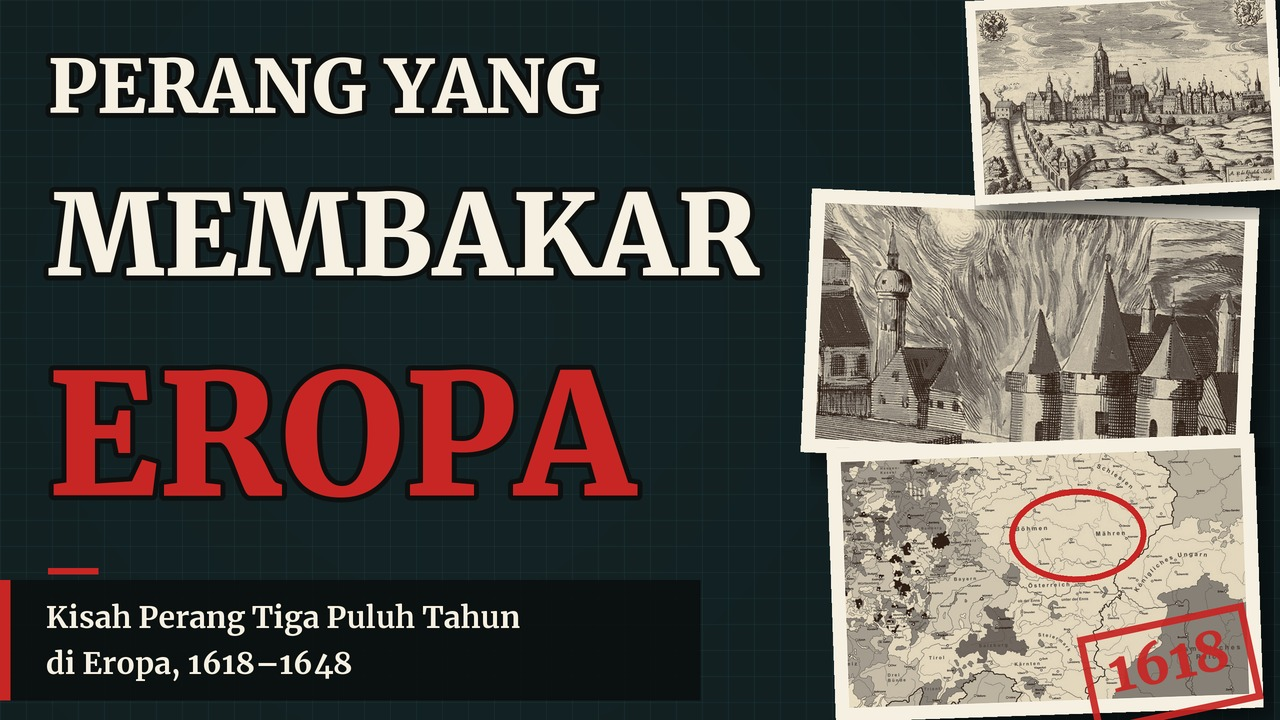
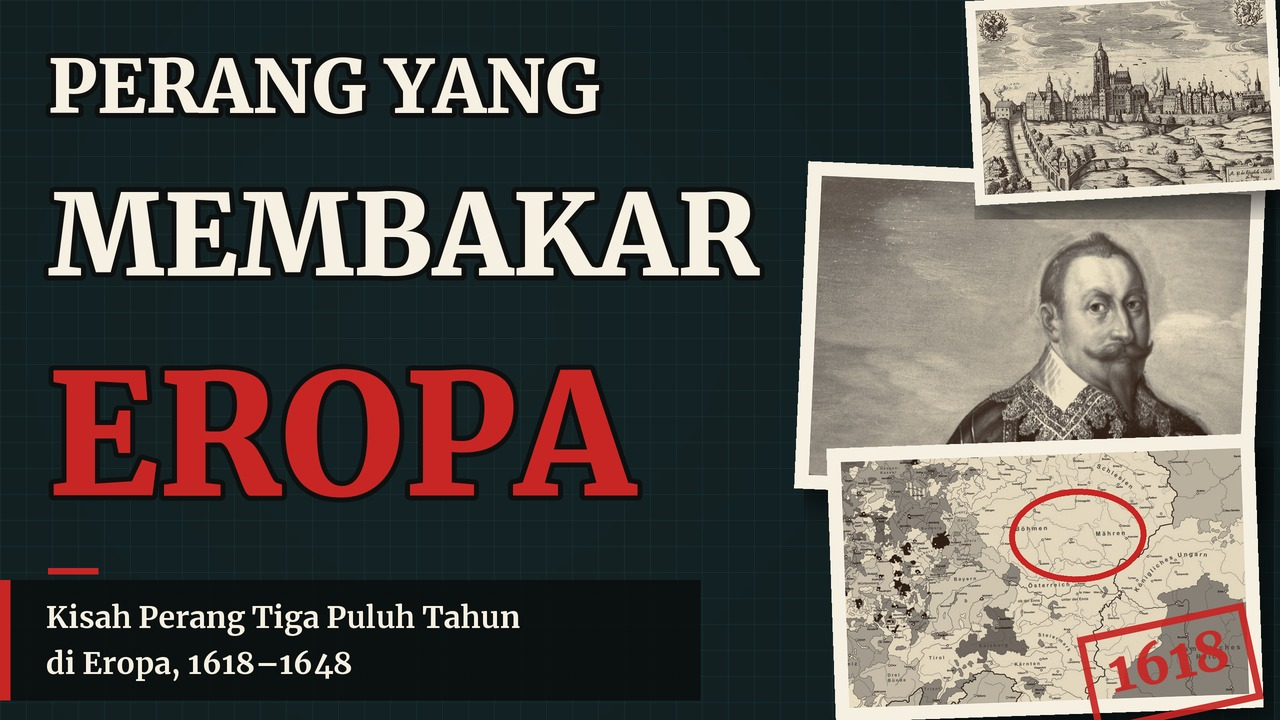
Thumbnail: use Gustavus Adolphus portrait as center photo
Claude-Session: https://claude.ai/code/session_01EsaXemv1TE27SXDwN6fxjw

Changed region(s): [[0.5938, 0.2139, 1.0, 0.7028]]

diff --git a/thumbnail/make_thumb.py b/thumbnail/make_thumb.py
@@ -35,8 +35,8 @@ def paste(img, ph, cx, cy, annot=None):
     img.paste(im, (x, y), im)
 
 G = lambda n: os.path.join(ROOT, 'gambar_tritone', n)
-# big middle photo: burning city
-paste(img, photo(G('15_kota-dilalap-api.jpg'), 420, -2.5), 1030, 330)
+# big middle photo: Gustavus Adolphus
+paste(img, photo(G('20_potret-gustavus-adolphus.jpg'), 430, -2.5, crop=(.12, .02, .98, .62)), 1030, 335)
 # top-right: Prague castle
 paste(img, photo(G('07_panorama-kastel-praha.jpg'), 290, 3, border=10), 1125, 95)
 # bottom: map 1618 with a red circle around Bohemia + stamp
